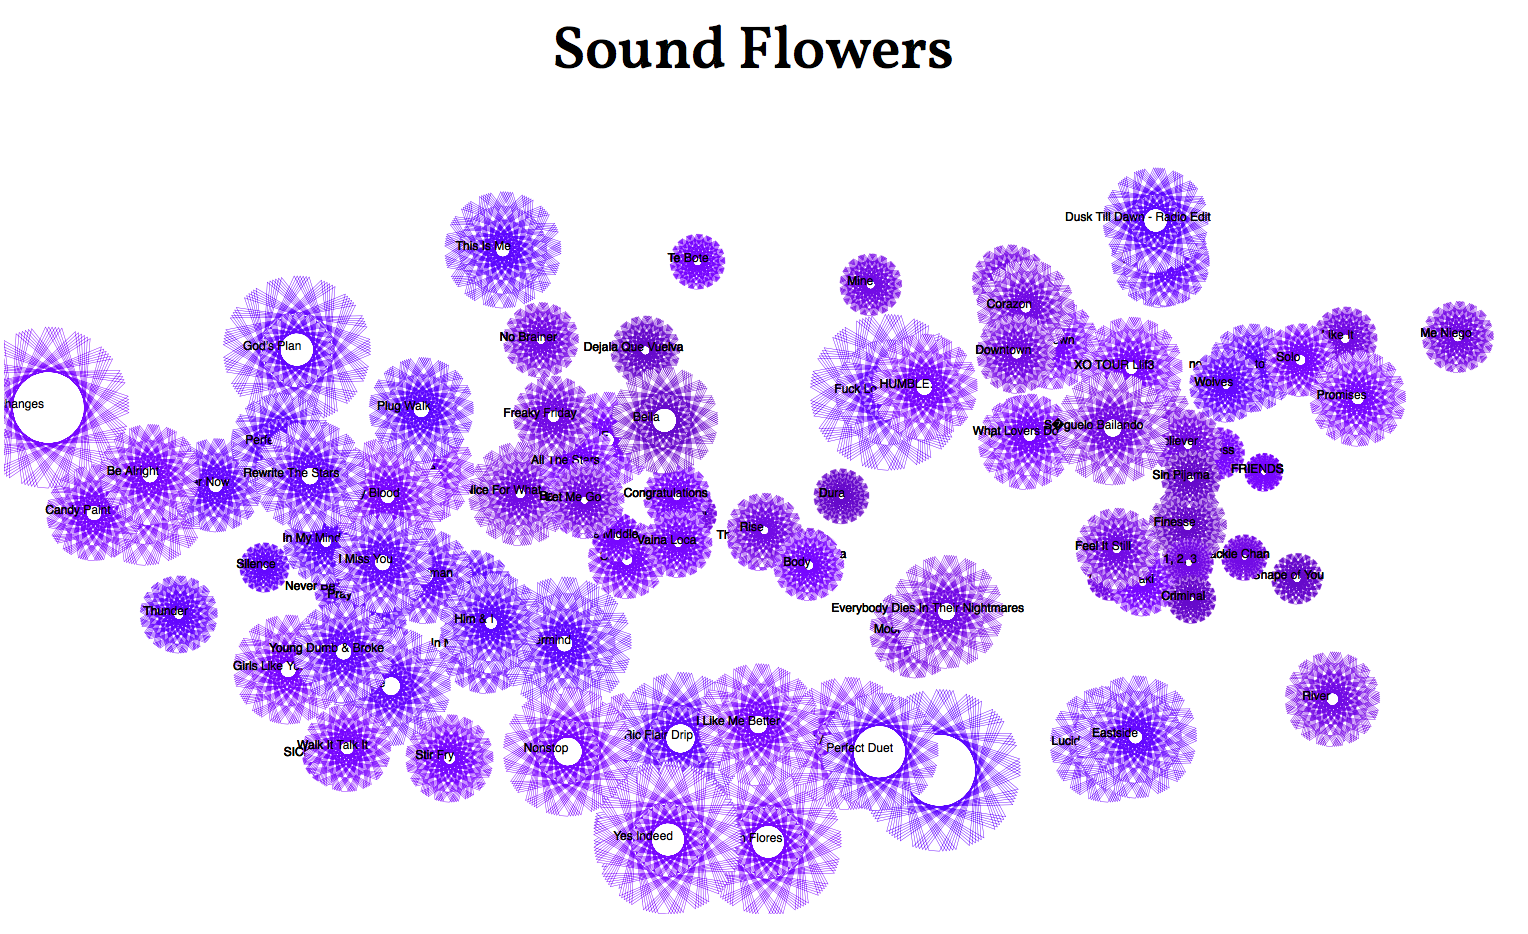
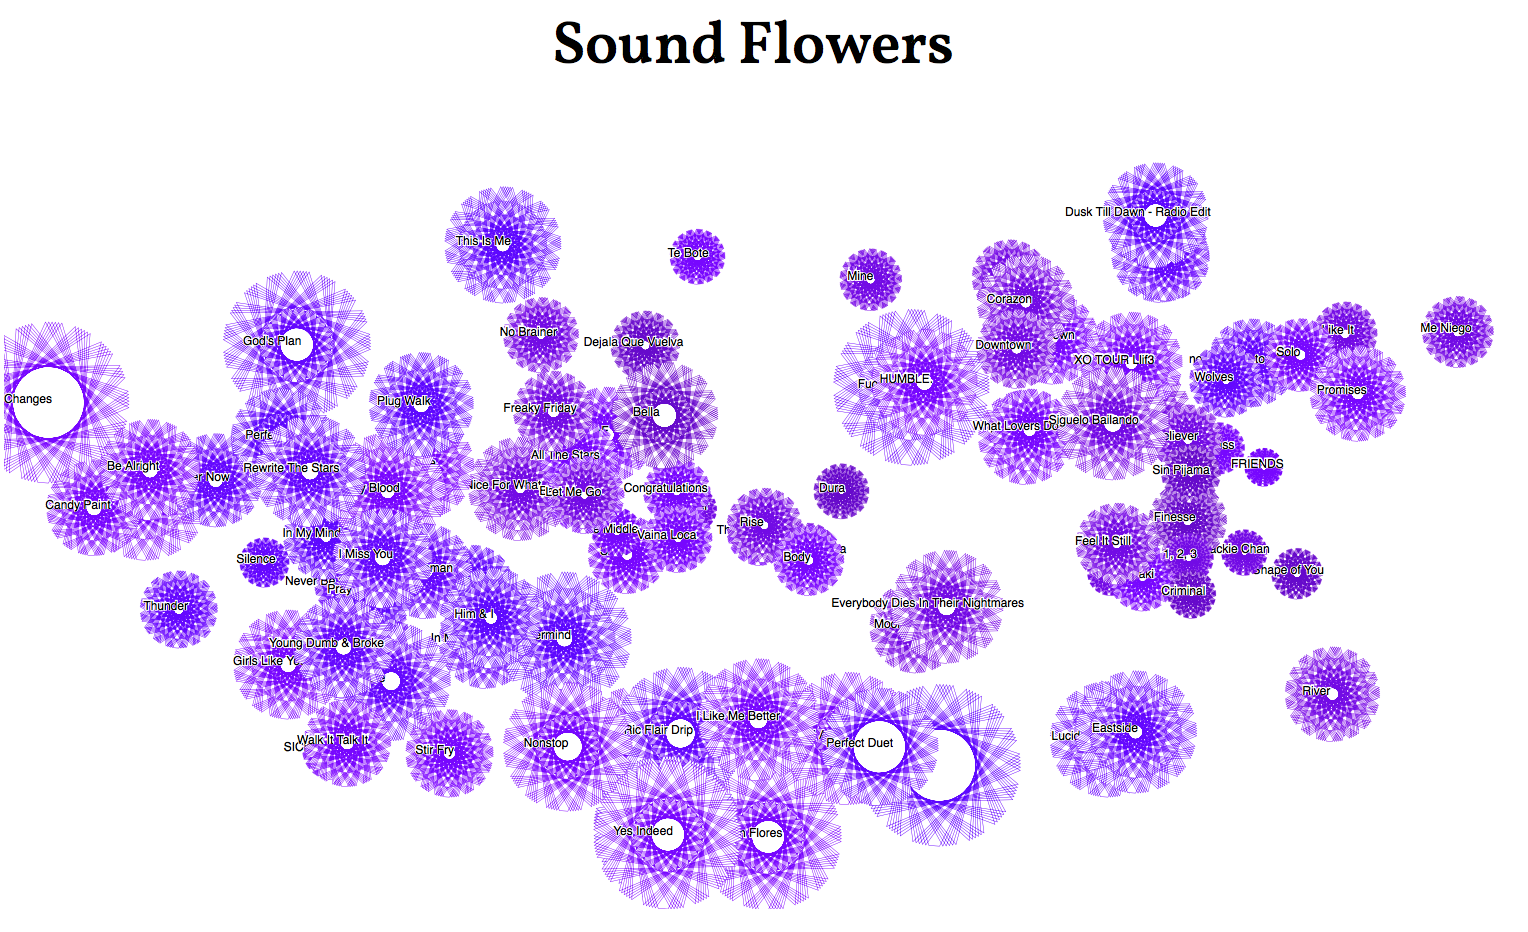
add gif

diff --git a/p5/sketches/sound/sound_flower/index.html b/p5/sketches/sound/sound_flower/index.html
@@ -4,7 +4,7 @@
   <meta charset="UTF-8">
   <script src="library/p5.min.js"></script>
   <script src="library/p5.sound.js"></script>
-  <script src="sound_flower.js"></script>
+  <script src="testdata.js"></script>
   <script type="text/javascript" src="library/dat.gui.min.js"></script>
   <script>
     var options = {
@@ -33,7 +33,7 @@
 </head>
 
 <body>
-  <h1 face="verdana">Sound Flower</h1>
+  <h1 face="verdana"></h1>
 </body>
 
 </html>

diff --git a/p5/sketches/sound/sound_flower_spotify/README.md b/p5/sketches/sound/sound_flower_spotify/README.md
@@ -1,6 +1,6 @@
 
-Sound flowers is generated by the audio attributes of top 2018 Spotify songs, positioned using t-SNE algorithm. 
+Sound flowers is generated with the audio attributes of top 2018 Spotify songs, positioned using t-SNE algorithm. The size of the flowers are proportional to the loudness of the songs,the layers of petals encode the energy levels, and color gradients are related to the measure of happiness (with a blue tint added to calmer and sadder songs).
 
-![](../assets/sound_flowers3.png)
+![](../assets/sound_flowers.gif)
 
-The size of the flowers are proportional to the loudness of the songs,the layers of petals encode the energy levels, and color gradients are related to the measure of happiness (with a blue tint added to calmer and sadder songs).
+
